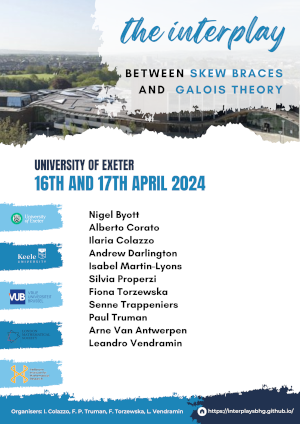
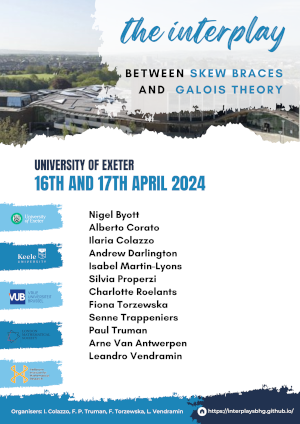
exeter

Changed region(s): [[0.3, 0.6745, 0.63, 0.8585]]

diff --git a/index.html b/index.html
@@ -130,7 +130,7 @@
                 <div class="flex-row">
                   <div class="flex-item flex-column">
                     
-                      <a href="/file/exeter_posterr2.pdf" target="_blank"><img class="image" src="img/exeter_poster2.png"></a>
+                      <a href="/file/exeter_poster2.pdf" target="_blank"><img class="image" src="img/exeter_poster2.png"></a>
                       </div>
                       
                       <div class="flex-item flex-column">
@@ -142,6 +142,7 @@
               <li>Andrew Darlington, University of Exeter (UK)</li>
               <li>Isabel Martin-Lyons, Univeristy of Keele (UK)</li>
               <li>Silvia Properzi, Vrije Universiteit Brussel (Belgium)</li>
+              <li>Charlotte Roelants, Vrije Universiteit Brussel (Belgium)</li>
               <li>Fiona Torzewska, University of Bristol (UK)</li>
               <li>Senne Trappeniers, Vrije Universiteit Brussel (Belgium)</li>
               <li>Paul Truman, University of Keele (UK)</li>
